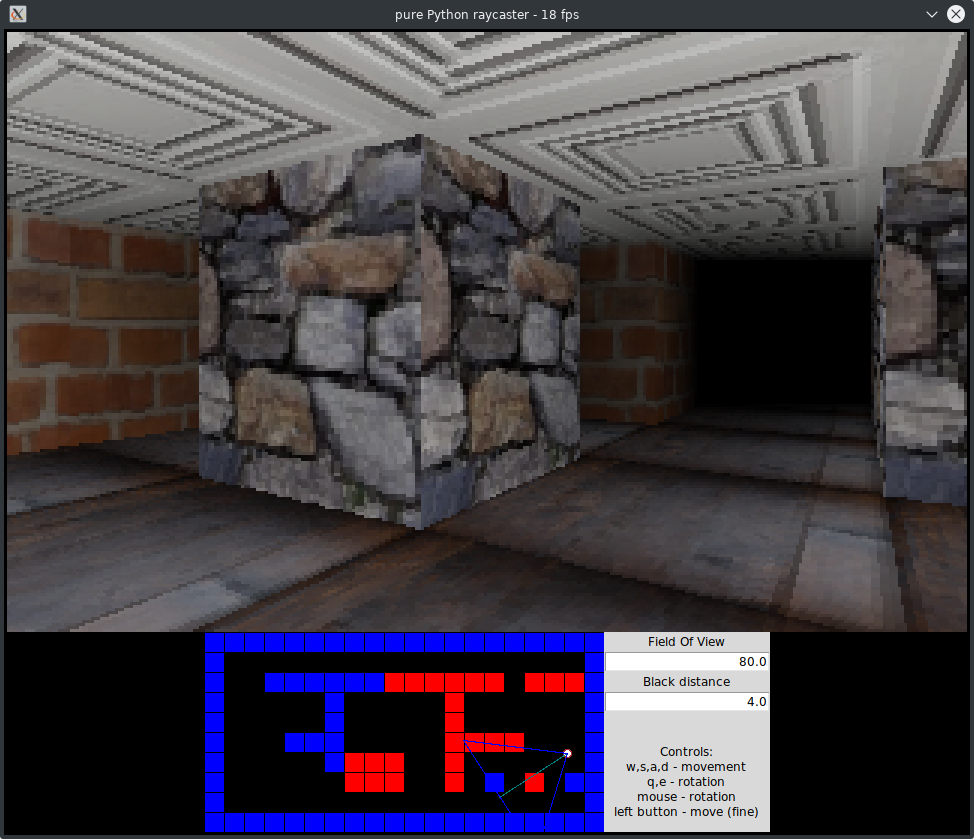
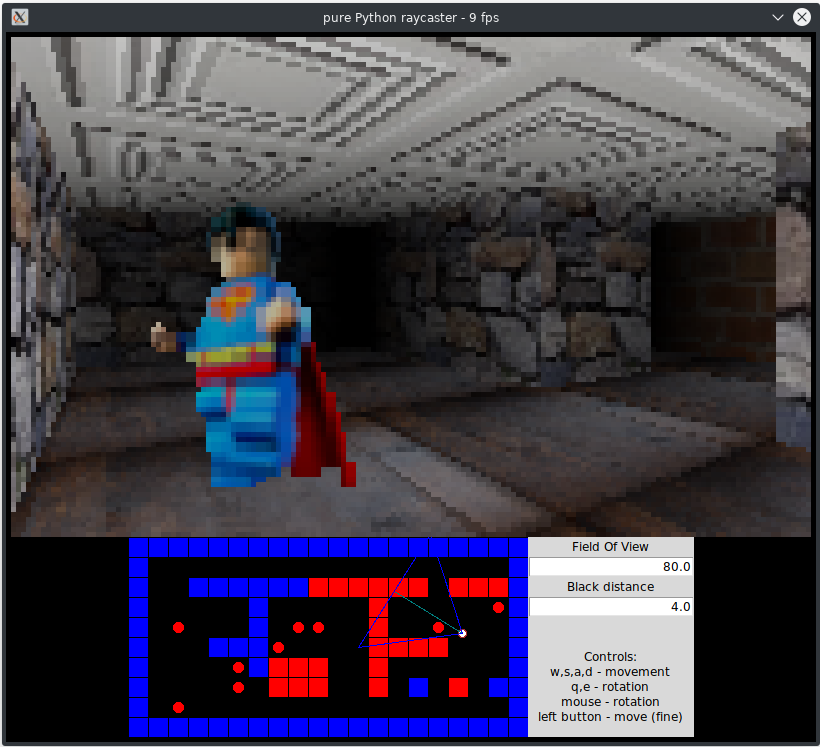
implemented sprites

diff --git a/pyraycaster/raycaster.py b/pyraycaster/raycaster.py
@@ -1,5 +1,5 @@
-from math import pi, tan, radians
-from typing import Tuple, List, Optional
+from math import pi, tan, radians, cos
+from typing import Tuple, List, Optional, Union
 from PIL import Image
 from .vector import Vec2
 from .mapstuff import Map, Texture
@@ -28,7 +28,8 @@ class Raycaster:
             "wall-bricks": Texture("textures/wall-bricks.png"),
             "wall-stone": Texture("textures/wall-stone.png"),
             "creature-gargoyle": Texture("textures/gargoyle.png"),
-            "creature-hero": Texture("textures/legohero.png")
+            "creature-hero": Texture("textures/legohero-small.png"),
+            "treasure": Texture("textures/treasure.png")
         }
         self.wall_textures = [None, self.textures["wall-bricks"], self.textures["wall-stone"]]
         self.frame = 0
@@ -38,21 +39,21 @@ class Raycaster:
         self.map = Map(["11111111111111111111",
                         "1..................1",
                         "1..111111222222.2221",
-                        "1.....1.....2......1",
+                        "1.....1.....2.....t1",
                         "1.g...1.gh..2..h...1",
-                        "1...111.....2222...1",
-                        "1.....1222..2......1",
+                        "1...111t....2222...1",
+                        "1....t1222..2......1",
                         "1....g.222..2.1.2.11",
                         "1.h.......s........1",
                         "11111111111111111111"])
         self.player_position = Vec2(self.map.player_start[0]+0.5, self.map.player_start[1]+0.5)
 
     def tick(self, walltime_msec: float) -> None:
-        # self.clear_zbuffer()        # TODO actually use the z-buffer for something
+        self.clear_zbuffer()
         self.frame += 1
         # cast a ray per pixel column on the screen!
         # (we end up redrawing all pixels of the screen, so no explicit clear is needed)
-        d_screen = 0.5/(tan(self.HVOF/2) * self.pixheight/self.pixwidth)
+        d_screen = self.screen_distance()
         for x in range(self.pixwidth):
             wall, distance, texture_x = self.cast_ray(x)
             if distance > 0:
@@ -63,6 +64,7 @@ class Raycaster:
                 else:
                     self.draw_black_column(x, ceiling_size, distance)
         self.draw_floor_and_ceiling(self.ceiling_sizes, d_screen)
+        self.draw_sprites(d_screen)
 
     def cast_ray(self, pixel_x: int) -> Tuple[int, float, float]:
         # TODO more efficient xy dda algorithm: use map square dx/dy steps to hop map squares,
@@ -71,7 +73,7 @@ class Raycaster:
         #      That also makes the intersection test a lot simpler!?
         camera_plane_ray = (pixel_x / self.pixwidth - 0.5) * 2 * self.camera_plane
         cast_ray = self.player_direction + camera_plane_ray
-        distance = 0.0
+        distance = 0.0     # distance perpendicular to the camera view plane
         step_size = 0.02   # lower this to increase ray resolution
         ray = self.player_position
         ray_step = cast_ray * step_size
@@ -202,36 +204,66 @@ class Raycaster:
                     self.set_pixel(x, y, d_ground, brightness, ceiling_tex.sample(ray.x, -ray.y))
                     self.set_pixel(x, self.pixheight-y-1, d_ground, brightness, floor_tex.sample(ray.x, -ray.y))
 
+    def draw_sprites(self, d_screen: float) -> None:
+        for (mx, my), mc in self.map.monsters.items():
+            monster_pos = Vec2(mx + 0.5, my + 0.5)
+            monster_vec = monster_pos - self.player_position
+            monster_direction = monster_vec.angle()
+            monster_distance = monster_vec.magnitude()
+            monster_view_angle = self.player_direction.angle() - monster_direction
+            if monster_view_angle < -pi:
+                monster_view_angle += 2*pi
+            elif monster_view_angle > pi:
+                monster_view_angle -= 2*pi
+            if monster_distance < self.BLACK_DISTANCE and abs(monster_view_angle) < self.HVOF/2:
+                if mc == "g":
+                    texture = self.textures["creature-gargoyle"]
+                elif mc == "h":
+                    texture = self.textures["creature-hero"]
+                elif mc == "t":
+                    texture = self.textures["treasure"]
+                else:
+                    raise KeyError("unknown monster: " + mc)
+                middle_pixel_column = int((0.5*(monster_view_angle/(self.HVOF/2))+0.5) * self.pixwidth)
+                monster_perpendicular_distance = monster_distance * cos(monster_view_angle)
+                ceiling_size = int(self.pixheight * (1.0 - d_screen / monster_perpendicular_distance) / 2.0)
+                if ceiling_size >= 0:
+                    brightness = self.brightness(monster_perpendicular_distance)
+                    pixel_height = self.pixheight - ceiling_size*2
+                    pixel_width = pixel_height
+                    for y in range(pixel_height):
+                        for x in range(max(0, int(middle_pixel_column - pixel_width/2)), min(self.pixwidth, int(middle_pixel_column + pixel_width/2))):
+                            tc = texture.sample((x-middle_pixel_column)/pixel_width - 0.5, y/pixel_height)
+                            if len(tc) < 4 or tc[3] > 200:
+                                self.set_pixel(x, y+ceiling_size, monster_perpendicular_distance, brightness, tc)
+
     def clear_zbuffer(self) -> None:
         infinity = float("inf")
         for x in range(self.pixwidth):
             for y in range(self.pixheight):
                 self.zbuffer[x][y] = infinity
 
-    def set_pixel(self, x: int, y: int, z: float, brightness: float, rgb: Optional[Tuple[int, int, int]]) -> None:
+    def set_pixel(self, x: int, y: int, z: float, brightness: float, rgb: Optional[Union[Tuple[int, int, int, int], Tuple[int, int, int]]]) -> None:
         """Sets a pixel on the screen (if it is visible) and adjusts its z-buffer value.
         The pixel's brightness is adjusted as well.
         If rgb is None, the pixel is transparent instead of having a color."""
-        # TODO use the z-buffer (for now we ignore it because there's nothing using it at the moment)
-        # if z <= self.zbuffer[x][y]:
-        #     if rgb:
-        #         self.zbuffer[x][y] = z
-        #         if z > 0:
-        #             rgb = self.rgb_brightness(rgb, brightness)
-        #         self.image.putpixel((x, y), rgb)
-        if rgb:
-            if z > 0.0 and brightness != 1.0:
-                rgb = self.rgb_brightness(rgb, brightness)
-            self.image.putpixel((x, y), rgb)
+        if z <= self.zbuffer[x][y]:
+            if rgb:
+                self.zbuffer[x][y] = z
+                if z > 0 and brightness != 1.0:
+                    rgb = self.rgb_brightness(rgb, brightness)
+                self.image.putpixel((x, y), rgb)
 
-    def rgb_brightness(self, rgb: Tuple[int, int, int], brightness: float) -> Tuple[int, int, int]:
+    def rgb_brightness(self, rgb: Union[Tuple[int, int, int, int], Tuple[int, int, int]], brightness: float) -> Union[Tuple[int, int, int, int], Tuple[int, int, int]]:
         """adjust brightness of the color. brightness 0=pitch black, 1=normal"""
         # while theoretically it's more accurate to adjust the luminosity (by doing rgb->hls->rgb),
         # it's almost as good and a lot faster to just scale the r,g,b values themselves.
         # from colorsys import rgb_to_hls, hls_to_rgb
         # h, l, s = rgb_to_hls(*rgb)
         # r, g, b = hls_to_rgb(h, l*scale, s)
-        return int(rgb[0] * brightness), int(rgb[1] * brightness), int(rgb[2] * brightness)
+        if len(rgb)==3:
+            return int(rgb[0] * brightness), int(rgb[1] * brightness), int(rgb[2] * brightness)
+        return int(rgb[0] * brightness), int(rgb[1] * brightness), int(rgb[2] * brightness), rgb[3]
 
     def move_player_forward_or_back(self, amount: float) -> None:
         new = self.player_position + amount * self.player_direction.normalized()
@@ -266,3 +298,7 @@ class Raycaster:
     def set_fov(self, fov: float) -> None:
         self.HVOF = fov
         self.rotate_player(0.0)
+
+    def screen_distance(self):
+        return 0.5/(tan(self.HVOF/2) * self.pixheight/self.pixwidth)
+

diff --git a/pyraycaster/mapstuff.py b/pyraycaster/mapstuff.py
@@ -20,7 +20,7 @@ class Texture:
                 raise IOError(f"texture is not RGB or RGBA")
             self.image = img.load()
 
-    def sample(self, x: float, y: float) -> Tuple[int, int, int]:
+    def sample(self, x: float, y: float) -> Union[Tuple[int, int, int], Tuple[int, int, int, int]]:
         """Sample a texture color at the given coordinates, normalized 0.0 ... 0.999999999, wrapping around"""
         return self.image[int((x % 1.0)*self.SIZE), int((y % 1.0)*self.SIZE)]
 
@@ -38,7 +38,7 @@ class Map:
             for x in range(self.width):
                 if line[x] == 's':
                     self.player_start = x, y
-                elif line[x] in "gh":
+                elif line[x] in "ght":
                     self.monsters[(x, y)] = line[x]
         for mapline in mapdef:
             self.map.append(bytearray([self.translate_walls(c) for c in mapline]))

diff --git a/pyraycaster/gui.py b/pyraycaster/gui.py
@@ -28,6 +28,9 @@ class Minimap(tkinter.Canvas):
             for x in range(self.width):
                 c = worldmap.get_wall(x, self.height-y-1)
                 self.create_rectangle(x*self.SCALE, y*self.SCALE, (x+1)*self.SCALE, (y+1)*self.SCALE, fill=colors[c])
+                m = worldmap.monsters.get((x, self.height-y-1))
+                if m:
+                    self.create_oval((x+0.2)*self.SCALE, (y+0.2)*self.SCALE, (x+0.8)*self.SCALE, (y+0.8)*self.SCALE, fill='red')
         self.camera = self.create_oval(0, 0, 8, 8, fill='white', outline='brown')
         self.camera_angle = self.create_line(4, 4, 4+15, 4, fill='teal')
         self.cam_polygon = self.create_polygon(10, 10, 20, 20, 30, 30, fill='', outline='blue')

diff --git a/Readme.md b/Readme.md
@@ -26,7 +26,6 @@ and around 60 fps when using Pypy!  This is with the default 160x100 resolution.
 - use a more efficient way to calculate the ray intersection with a map square
 - use a more efficient ray trace algorithm that 'steps over squares' instead of actually tracing the ray using tiny steps
 - interpolated texture sampling
-- add some sprites (objects, monsters)
 
 
 # World coordinate system
